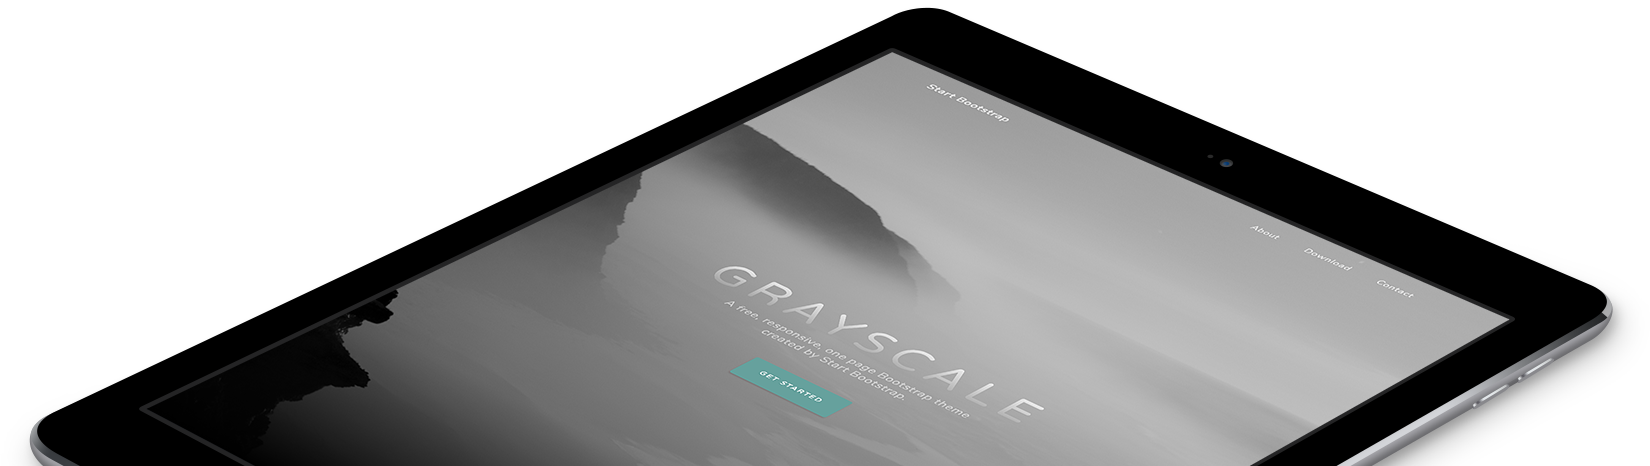
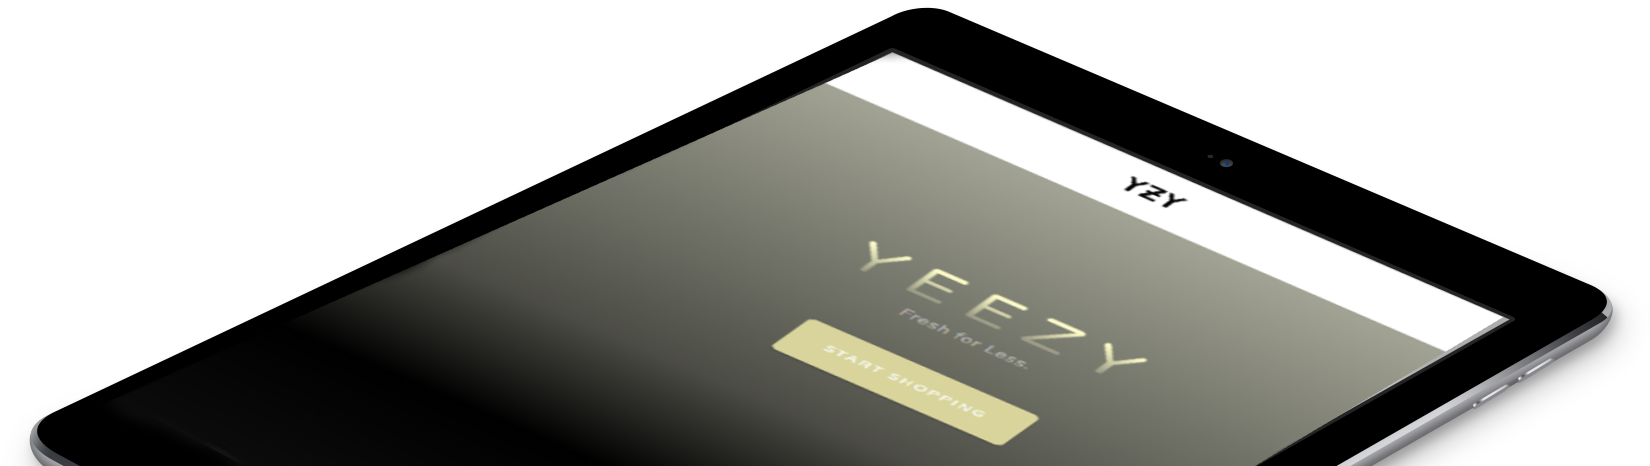
Finished Top Part Of Website

diff --git a/index.html b/index.html
@@ -19,9 +19,10 @@
         <!-- Navigation-->
         <nav class="navbar navbar-expand-lg navbar-light fixed-top" id="mainNav">
             <div class="container px-4 px-lg-5">
-                <a class="navbar-brand" href="#page-top">Start Bootstrap</a>
+                <a class="navbar-brand" href="#page-top"></a>
+                <img class="" src="assets/img/logo.png" alt="Logo" width="65" height="59">
                 <button class="navbar-toggler navbar-toggler-right" type="button" data-bs-toggle="collapse" data-bs-target="#navbarResponsive" aria-controls="navbarResponsive" aria-expanded="false" aria-label="Toggle navigation">
-                    Menu
+                    
                     <i class="fas fa-bars"></i>
                 </button>
                 <div class="collapse navbar-collapse" id="navbarResponsive">
@@ -38,9 +39,9 @@
             <div class="container px-4 px-lg-5 d-flex h-100 align-items-center justify-content-center">
                 <div class="d-flex justify-content-center">
                     <div class="text-center">
-                        <h1 class="mx-auto my-0 text-uppercase">Grayscale</h1>
-                        <h2 class="text-white-50 mx-auto mt-2 mb-5">A free, responsive, one page Bootstrap theme created by Start Bootstrap.</h2>
-                        <a class="btn btn-primary" href="#about">Get Started</a>
+                        <h1 class="mx-auto my-0 text-uppercase">Yeezy</h1>
+                        <h2 class="text-white-50 mx-auto mt-2 mb-5">Fresh for Less.</h2>
+                        <a class="btn btn-primary" href="#projects">START SHOPPING</a>
                     </div>
                 </div>
             </div>
@@ -50,11 +51,10 @@
             <div class="container px-4 px-lg-5">
                 <div class="row gx-4 gx-lg-5 justify-content-center">
                     <div class="col-lg-8">
-                        <h2 class="text-white mb-4">Built with Bootstrap 5</h2>
+                        <h2 class="text-white mb-4">Join us</h2>
                         <p class="text-white-50">
-                            Grayscale is a free Bootstrap theme created by Start Bootstrap. It can be yours right now, simply download the template on
-                            <a href="https://startbootstrap.com/theme/grayscale/">the preview page.</a>
-                            The theme is open source, and you can use it for any purpose, personal or commercial.
+                            Joining us will give you free access to the following, notified on every drop, free clothing sent every 2 months and 30% off all purchases. Join us on the
+                            <a href="#signup">the membership page.</a>
                         </p>
                     </div>
                 </div>
@@ -62,11 +62,12 @@
             </div>
         </section>
         <!-- Projects-->
+        <div class="div text-center">
         <section class="projects-section bg-light" id="projects">
             <div class="container px-4 px-lg-5">
                 <!-- Featured Project Row-->
                 <div class="row gx-0 mb-4 mb-lg-5 align-items-center">
-                    <div class="col-xl-8 col-lg-7"><img width="676px" height="284px" class="img-fluid mb-3 mb-lg-0" src="assets/img/Onyx.jpg" alt="..." /></div>
+                    <div class="col-xl-8 col-lg-7"><img width="376px" height="84px" class="img-fluid mb-3 mb-lg-0" src="assets/img/Onyx2.png" alt="..." /></div>
                     <div class="col-xl-4 col-lg-5">
                         <div class="featured-text text-center text-lg-left">
                             <h4>Onyx Foam Runners</h4>
@@ -74,6 +75,7 @@
                         </div>
                     </div>
                 </div>
+            </div>
                 <!-- Project One Row-->
                 <div class="row gx-0 mb-5 mb-lg-0 justify-content-center">
                     <div class="col-lg-6"><img class="img-fluid" src="assets/img/demo-image-01.jpg" alt="..." /></div>

diff --git a/css/styles.css b/css/styles.css
@@ -2849,19 +2849,19 @@ textarea.form-control-lg {
 
 .btn-primary {
   --bs-btn-color: #fff;
-  --bs-btn-bg: #64a19d;
-  --bs-btn-border-color: #64a19d;
+  --bs-btn-bg: #d8d49c;
+  --bs-btn-border-color: #d8d49c;
   --bs-btn-hover-color: #fff;
-  --bs-btn-hover-bg: #558985;
-  --bs-btn-hover-border-color: #50817e;
+  --bs-btn-hover-bg: #d8d49c;
+  --bs-btn-hover-border-color: #d8d49c;
   --bs-btn-focus-shadow-rgb: 123, 175, 172;
   --bs-btn-active-color: #fff;
-  --bs-btn-active-bg: #50817e;
-  --bs-btn-active-border-color: #4b7976;
+  --bs-btn-active-bg: #818050;
+  --bs-btn-active-border-color: #818050;
   --bs-btn-active-shadow: inset 0 3px 5px rgba(0, 0, 0, 0.125);
   --bs-btn-disabled-color: #fff;
-  --bs-btn-disabled-bg: #64a19d;
-  --bs-btn-disabled-border-color: #64a19d;
+  --bs-btn-disabled-bg: #d8d49c;
+  --bs-btn-disabled-border-color: #d8d49c;
 }
 
 .btn-secondary {
@@ -11069,7 +11069,7 @@ body {
   height: auto;
   min-height: 35rem;
   padding: 15rem 0;
-  background: linear-gradient(to bottom, rgba(0, 0, 0, 0.3) 0%, rgba(0, 0, 0, 0.7) 75%, #000 100%), url("../assets/img/bg-masthead.jpg");
+  background: linear-gradient(to bottom, rgba(0, 0, 0, 0.3) 0%, rgba(0, 0, 0, 0.7) 75%, #000 100%), url("../assets/img/1659825450.jpeg");
   background-position: center;
   background-repeat: no-repeat;
   background-attachment: scroll;
@@ -11080,7 +11080,11 @@ body {
   font-size: 2.5rem;
   line-height: 2.5rem;
   letter-spacing: 0.8rem;
-  background: linear-gradient(rgba(255, 255, 255, 0.9), rgba(255, 255, 255, 0));
+  background: rgb(1,1,1);
+  background: rgb(1,1,1);
+  background: rgb(1,1,1);
+  background: linear-gradient(0deg, rgba(1,1,1,0) 0%, rgba(255,254,202,1) 84%);
+
   -webkit-text-fill-color: transparent;
   -webkit-background-clip: text;
           background-clip: text;
